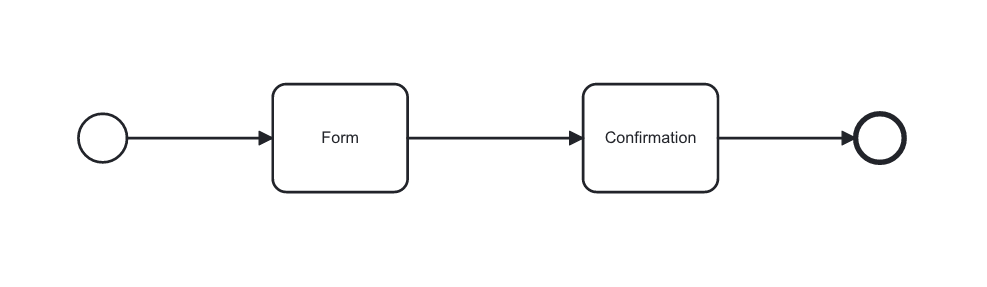
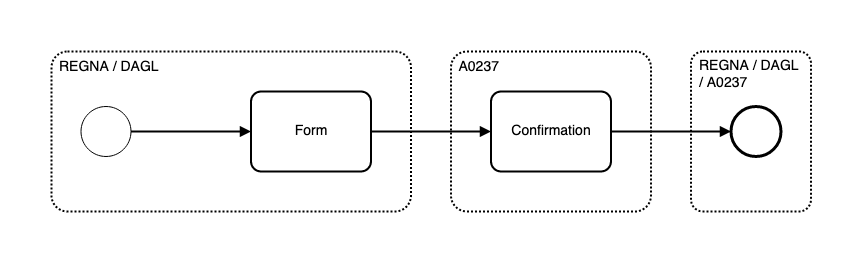
updated graphic to show policy

diff --git a/README.md b/README.md
@@ -2,7 +2,7 @@
 
 App used for testing process flow with different access policy for different process steps.
 
-## BPMN process
+## BPMN process & policy
 
 ![bpmn process](https://dev.altinn.studio/repos/ttd/signing-test/raw/branch/master/process.png)
 
